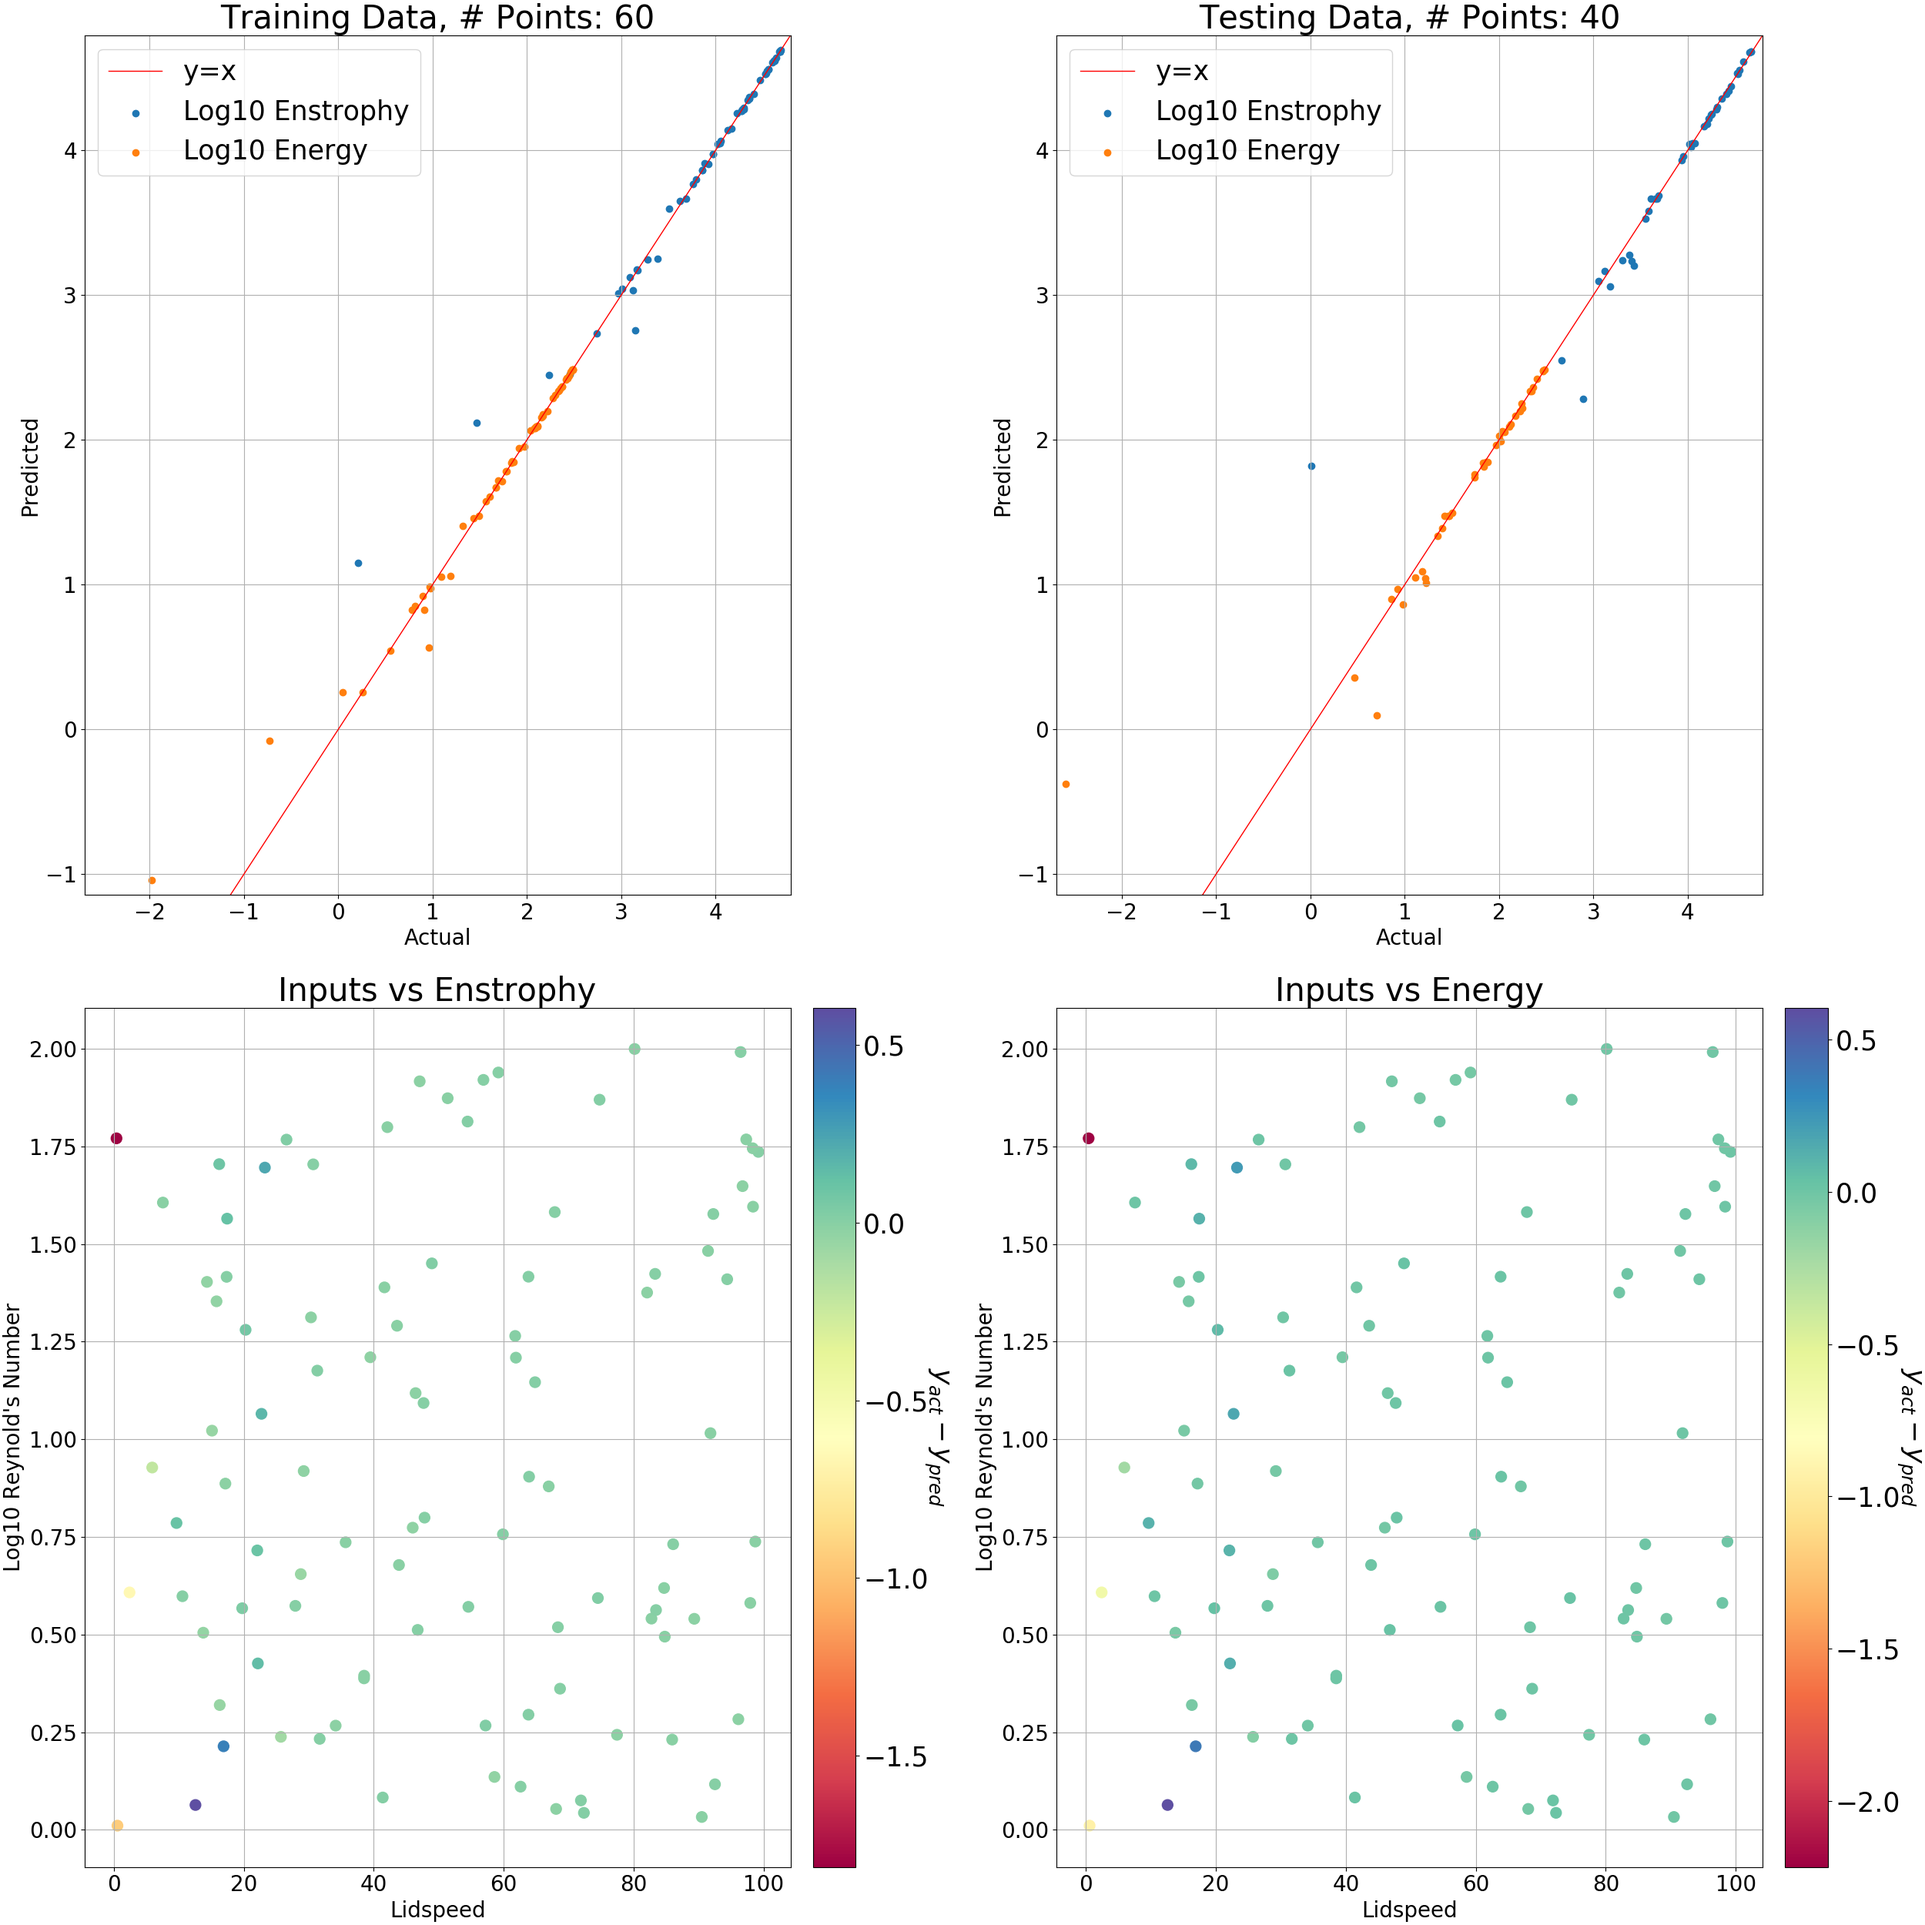
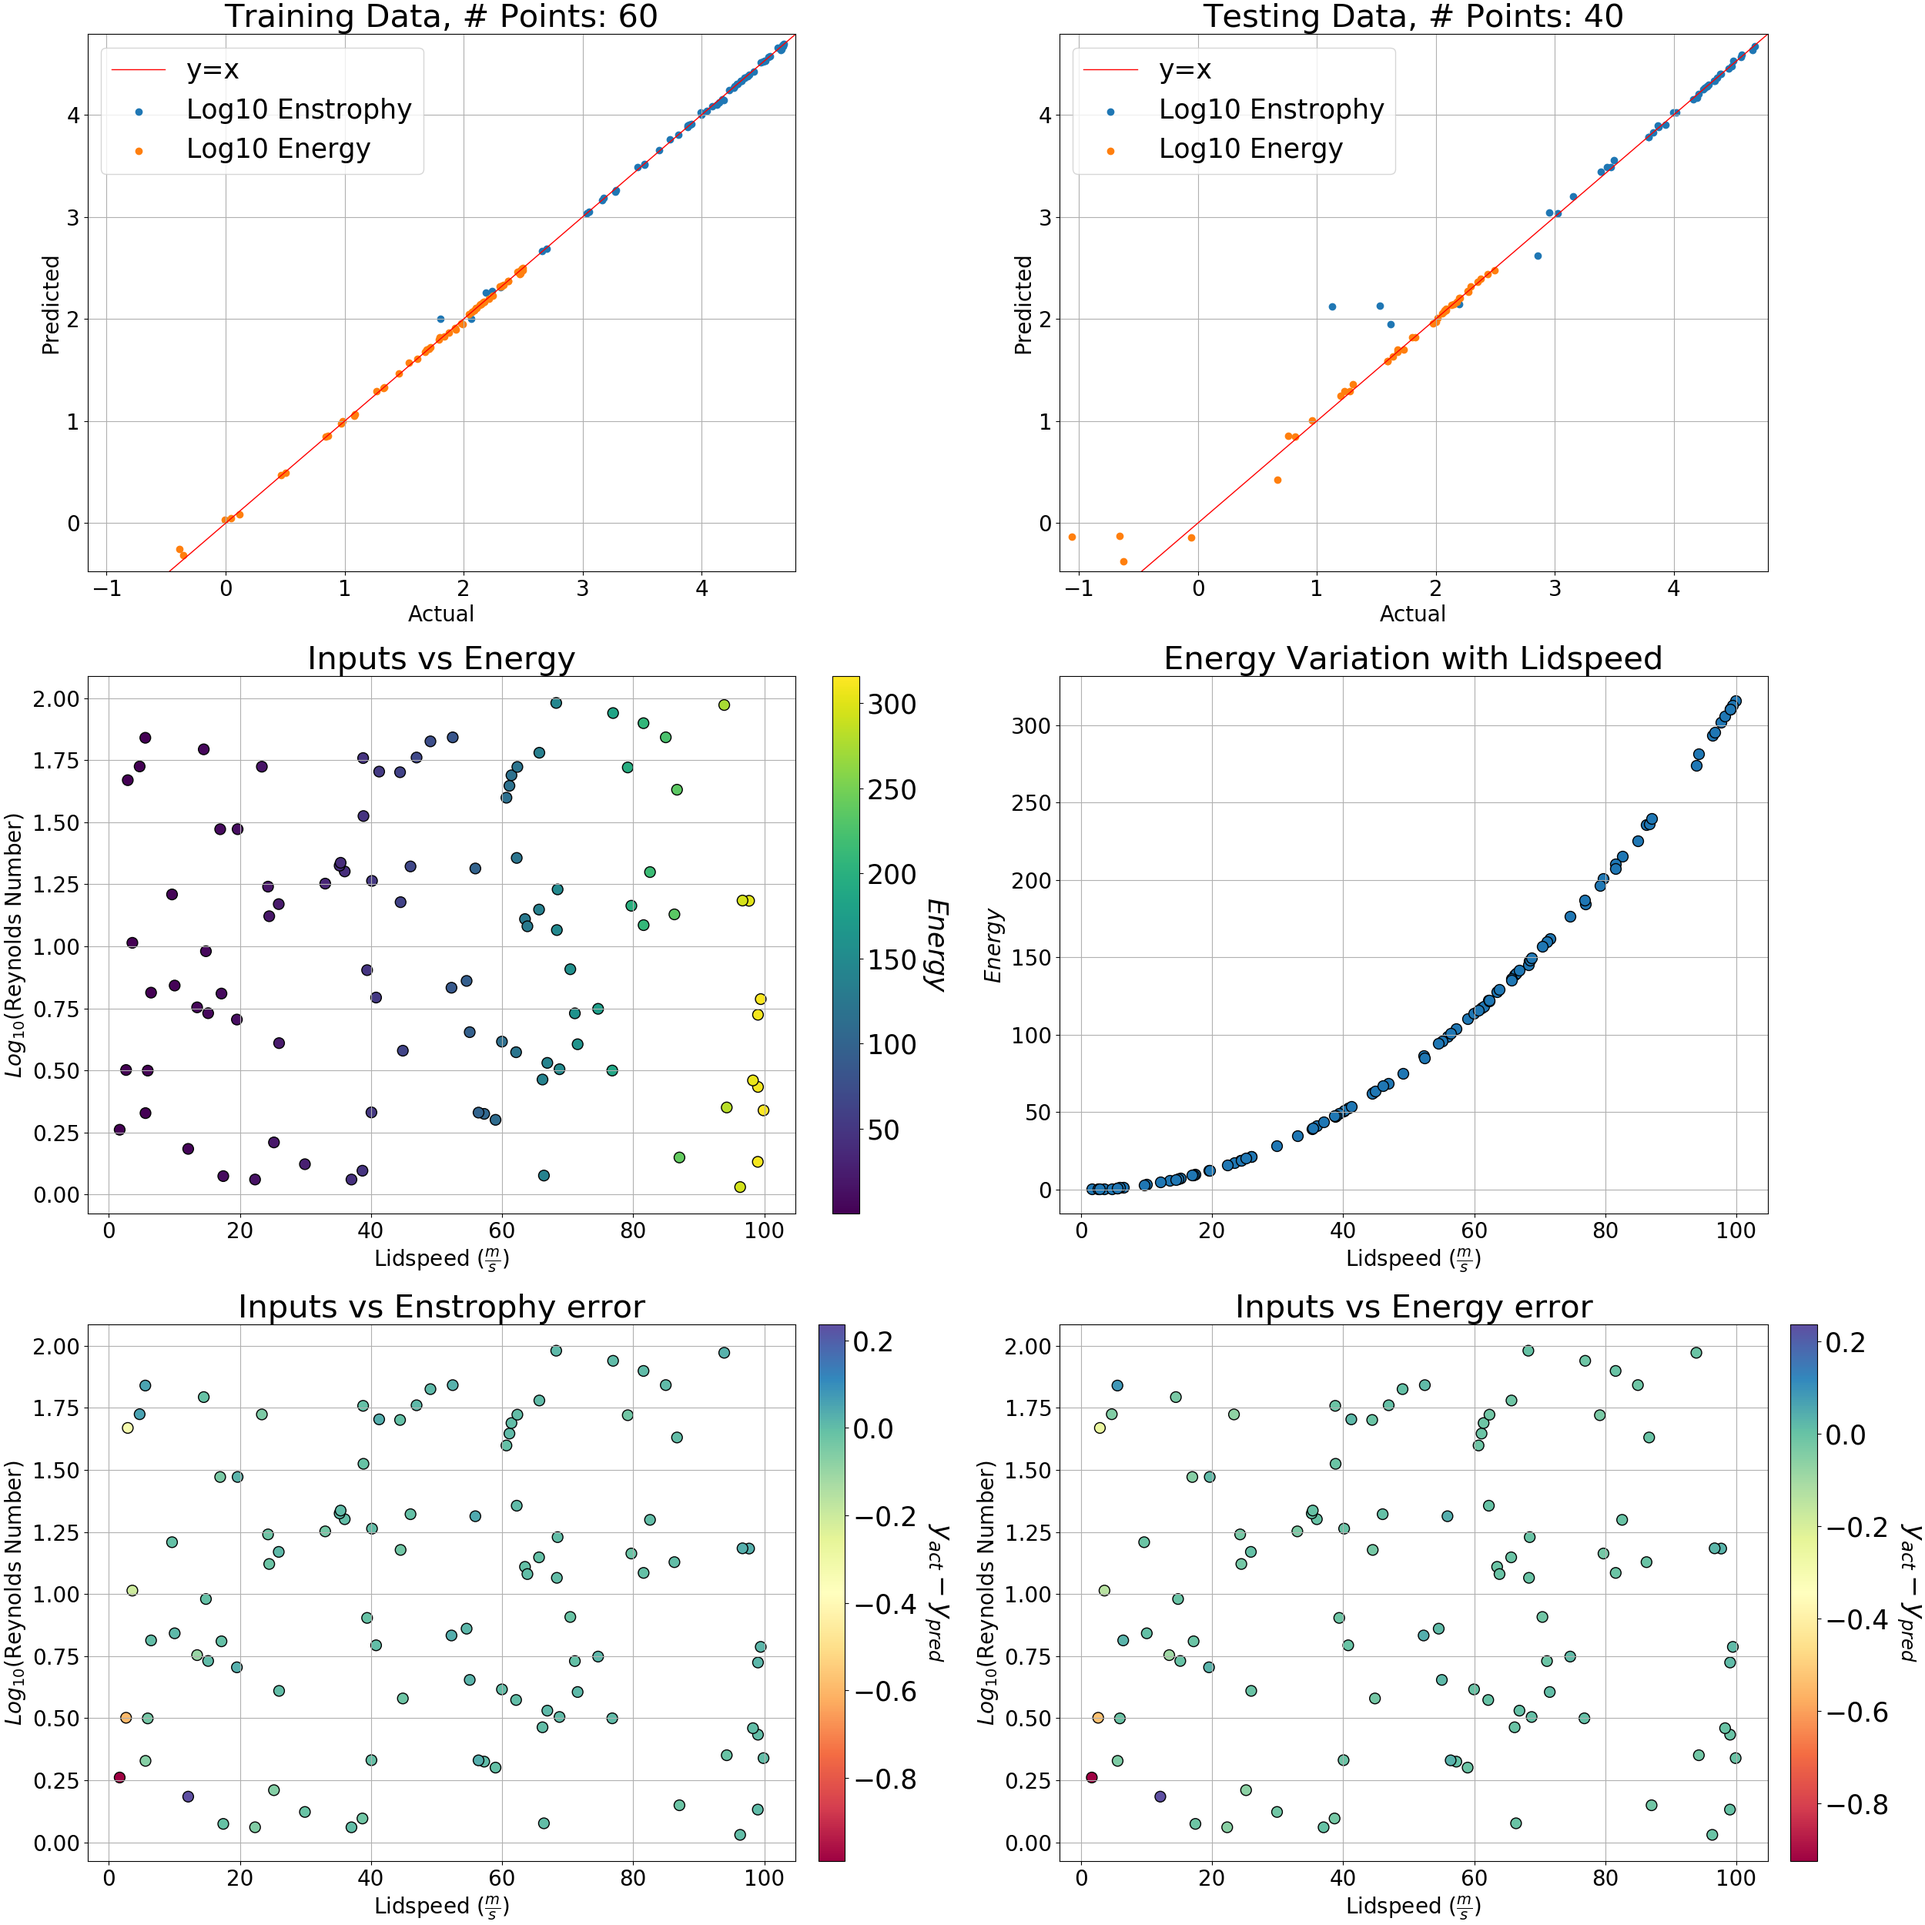
adjusted the visualization

diff --git a/docs/source/modules/run_simulation/run_simulation.rst b/docs/source/modules/run_simulation/run_simulation.rst
@@ -395,7 +395,7 @@ With 100 samples instead of 10 (should take about 6 minutes):
 
 To see your results, look inside the ``learn`` output directory. You should see a png that looks like this:
 
-.. image:: prediction.png
+.. image:: prediction2.png
     :align: center
 
 .. admonition:: Related articles
